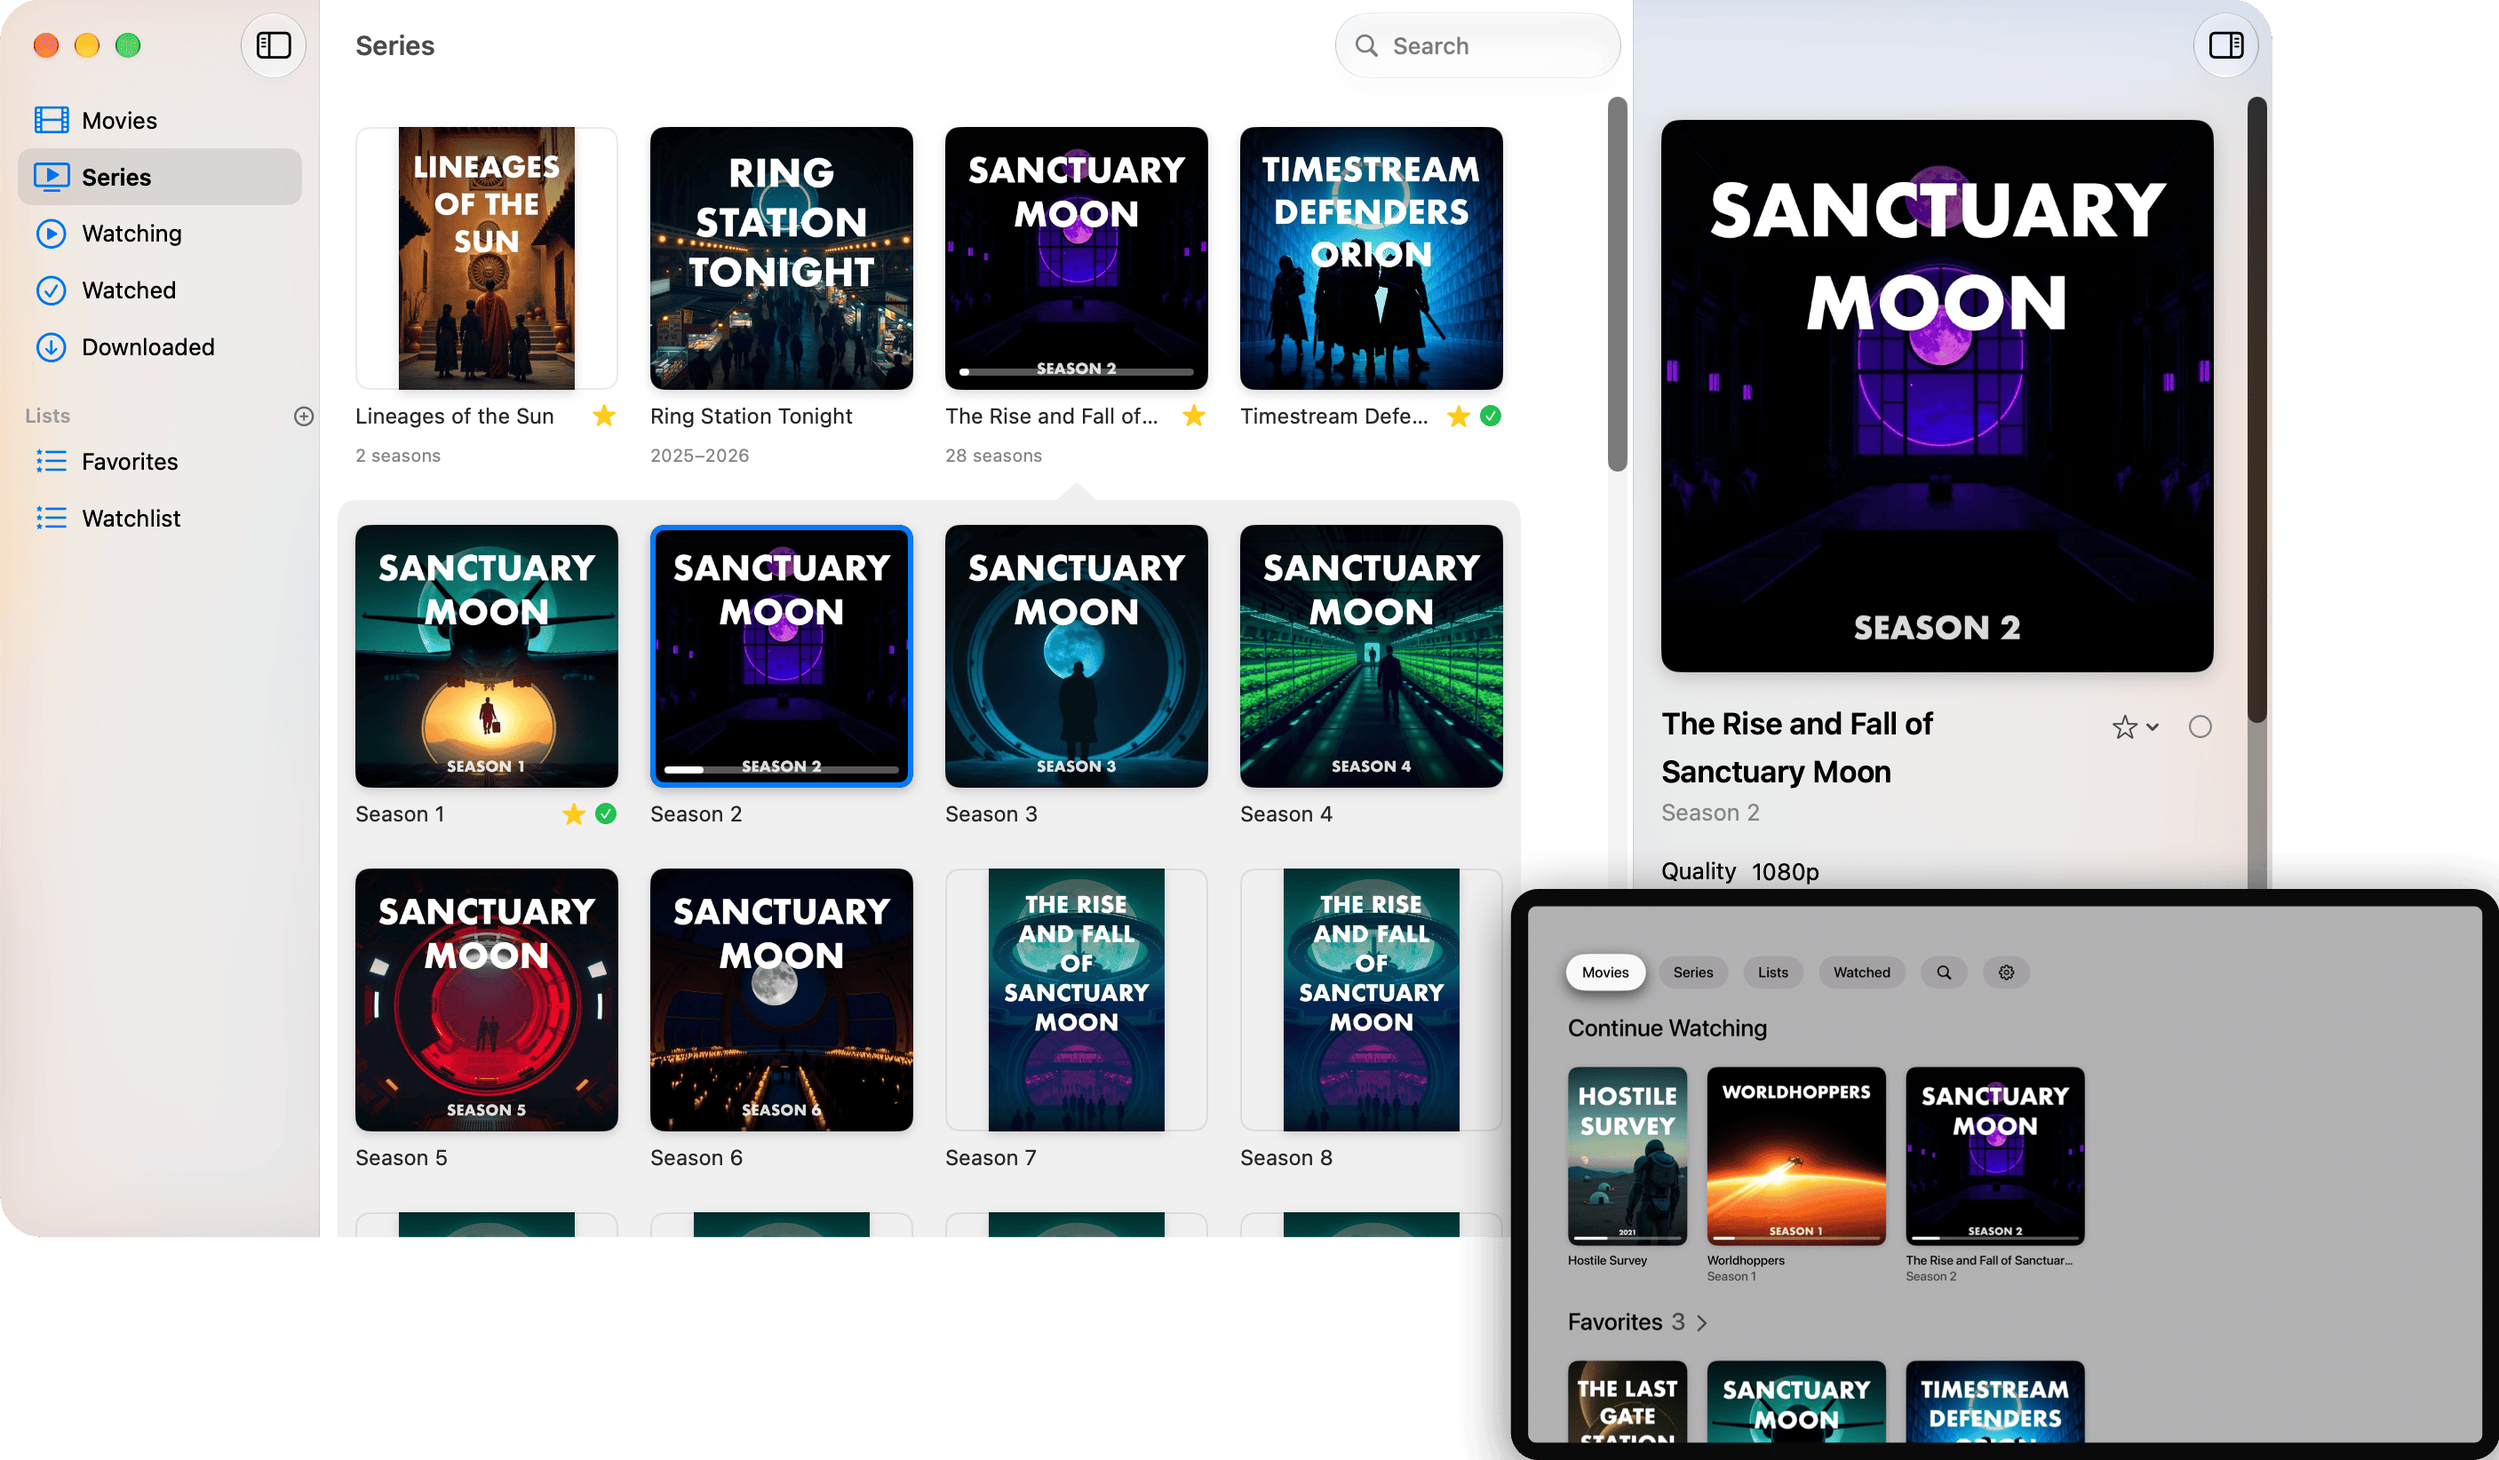
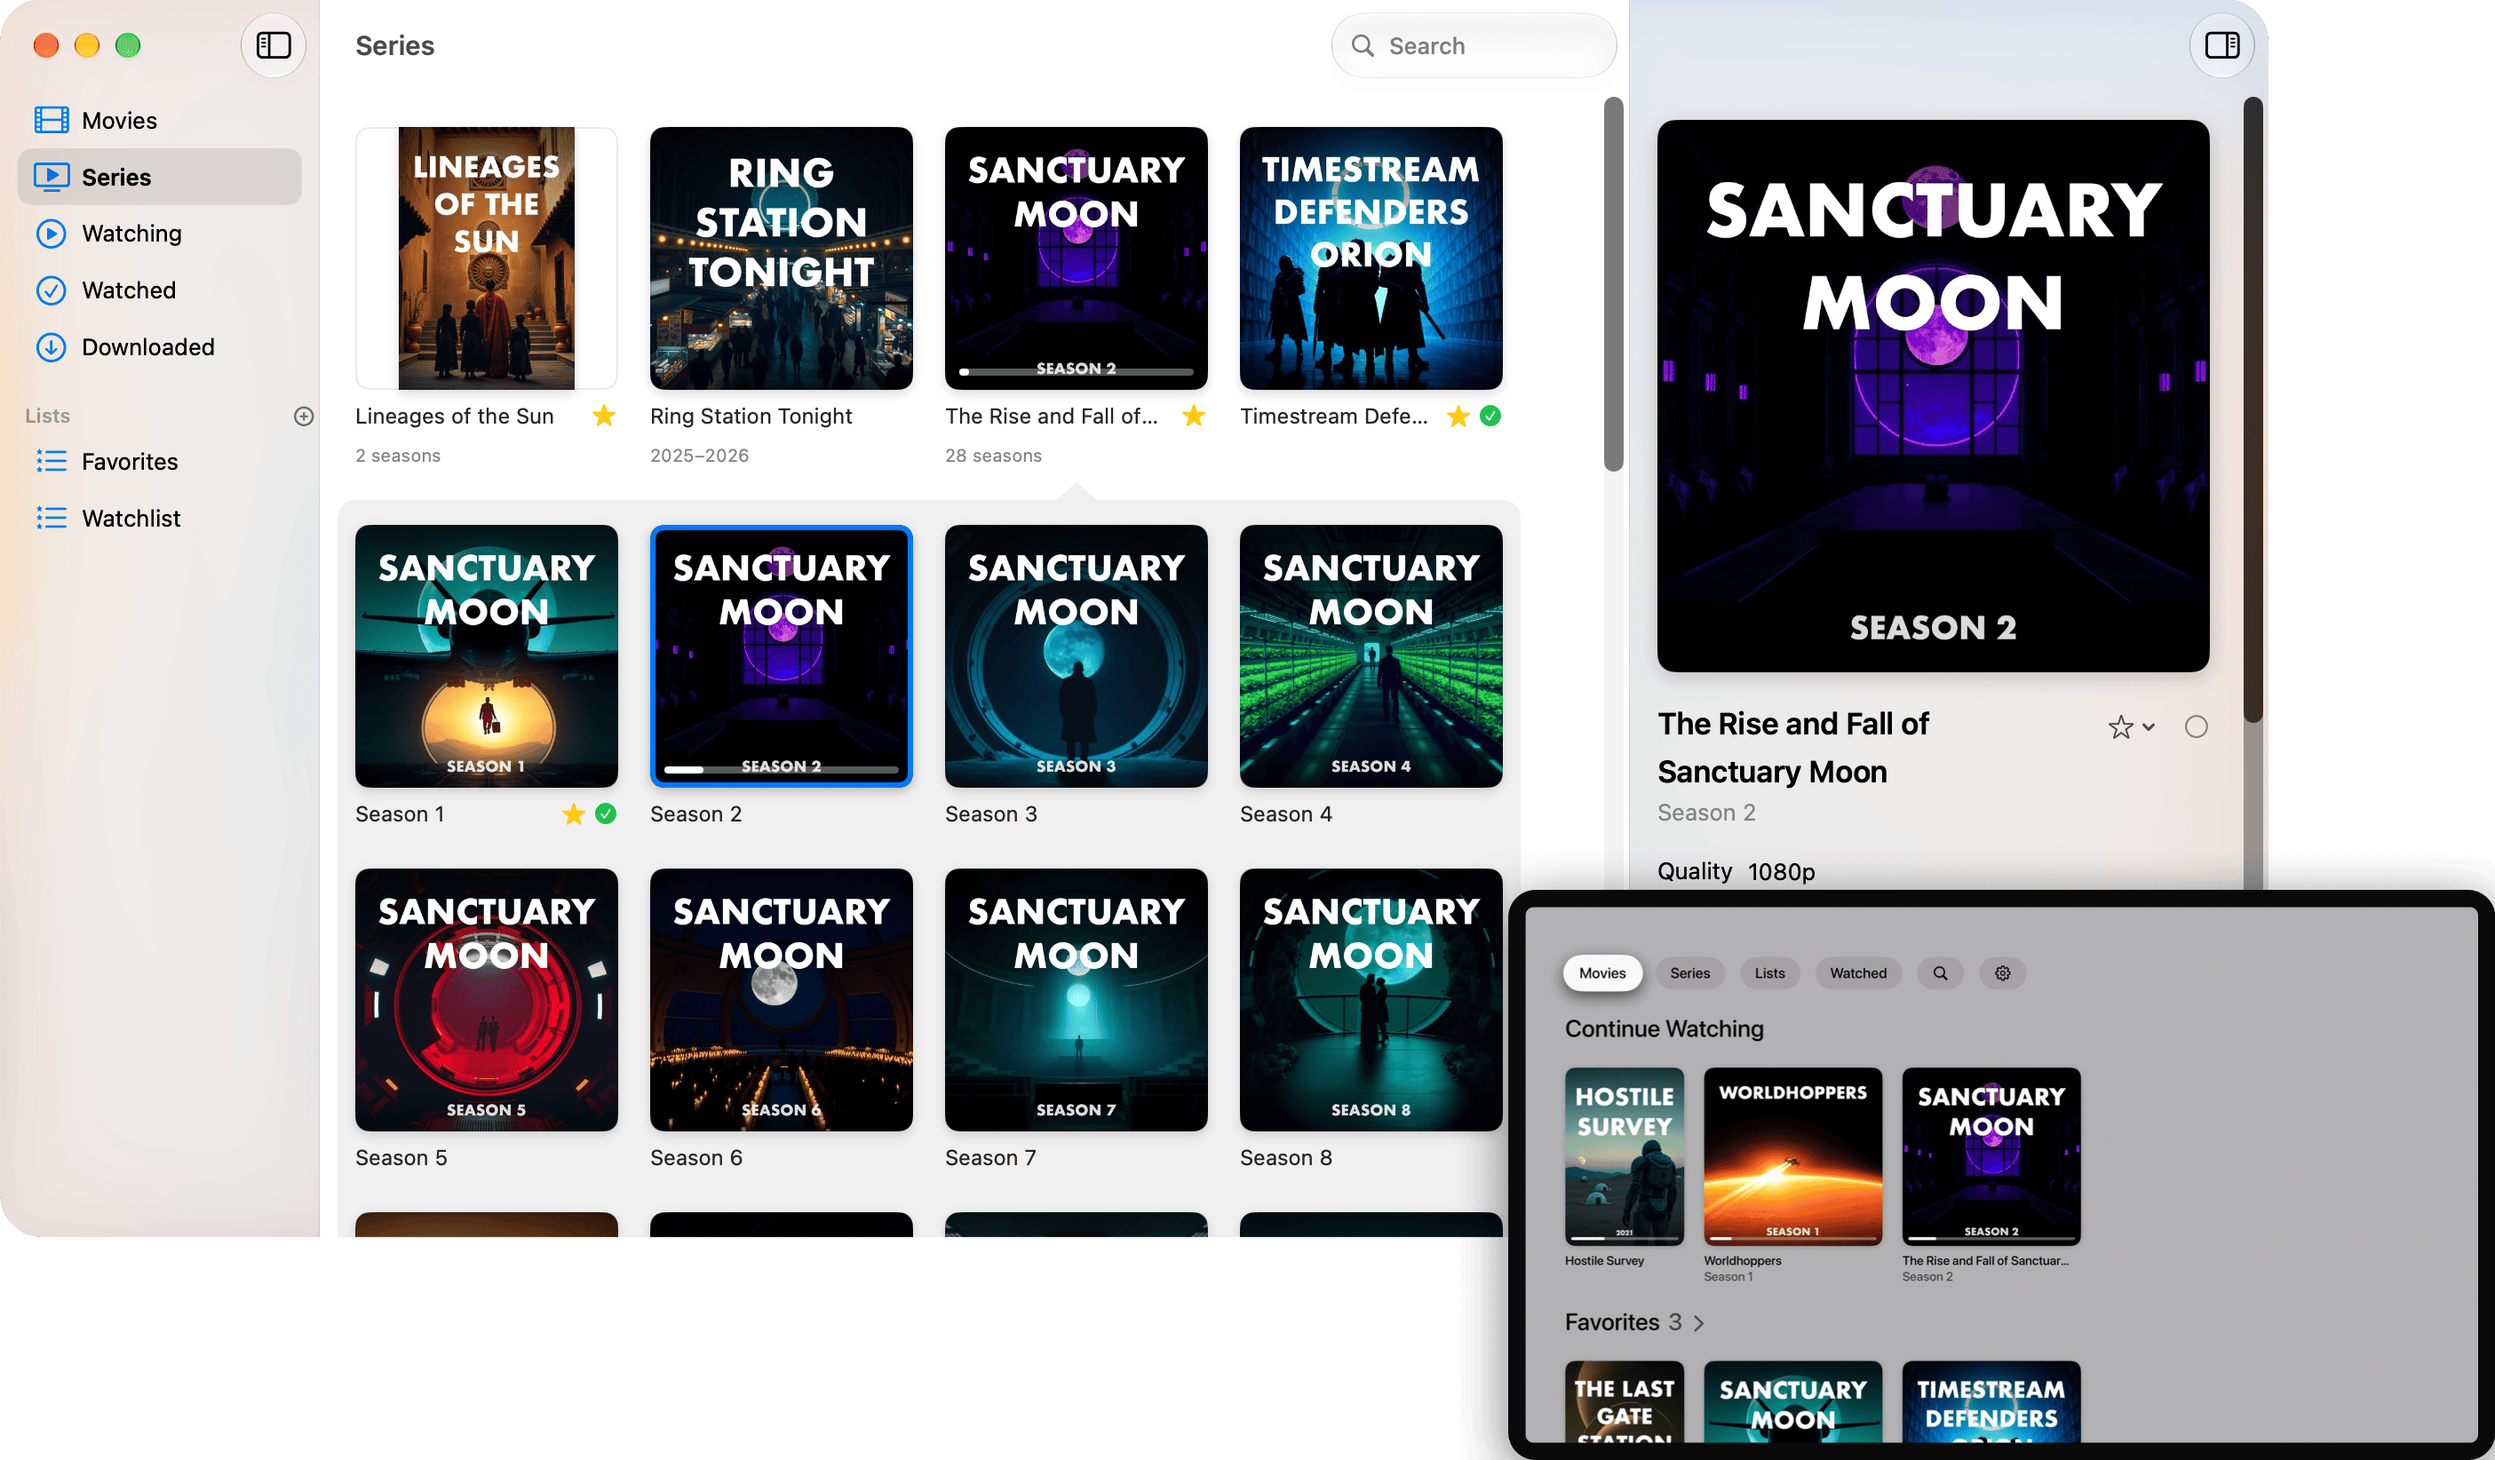
Screenshots: made again, the band showing seasons 7 and 8's art

diff --git a/DEVELOPMENT.md b/DEVELOPMENT.md
@@ -10,7 +10,7 @@ When each routine task was last done, and the commit it looked at (or made), so 
 | --- | --- | --- | --- |
 | Security audit | 2026-11-20 | `8d96a14` | Its fixes through `8fc7843`; the limits it left under [What members are trusted with](#sync) |
 | Code review | 2026-11-22 | `1f012f1` | Since the audit; its high and medium findings fixed through `a18e45d`, its low ones since, one left as a limit under [What members are trusted with](#sync) |
-| Screenshots | 2026-11-24 | `e35f8d2` | [tools/screenshots.sh](tools/screenshots.sh): every player and the hero, on the mock library's 28 seasons; the loop (`video`) as of `773bebf` |
+| Screenshots | 2026-11-24 | `bc0fcd4` | [tools/screenshots.sh](tools/screenshots.sh): every player and the hero, on the mock library's 28 seasons; the loop (`video`) as of `773bebf` |
 
 ## Practice
 

diff --git a/CHANGELOG.md b/CHANGELOG.md
@@ -4,6 +4,7 @@ All notable changes to Cinematheque are recorded here.
 
 ## Unreleased
 
+* Screenshots made again, with the mock library's art for Sanctuary Moon's seasons 7 to 12.
 * Command-line app: `person set --name` and `device set --name` name this person and their devices; `library leave` removes this device and syncs before forgetting, as the apps' Leave This Library does (`--to` handing the library over if need be).
 * Settings, on every app and the web client, say when each of your devices was last seen: when it last synced with this one.
 * Mac: "Not enough space to download…" shows as soon as downloading finds it, rather than only once it ends, which syncing could put off for good.
